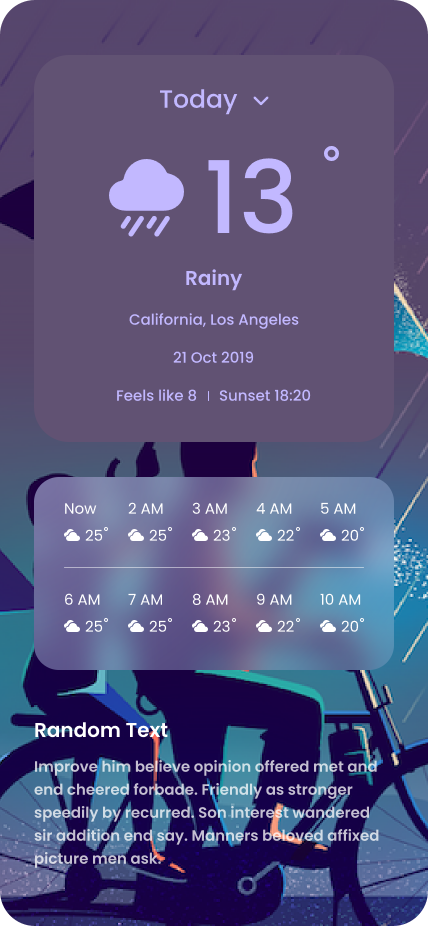
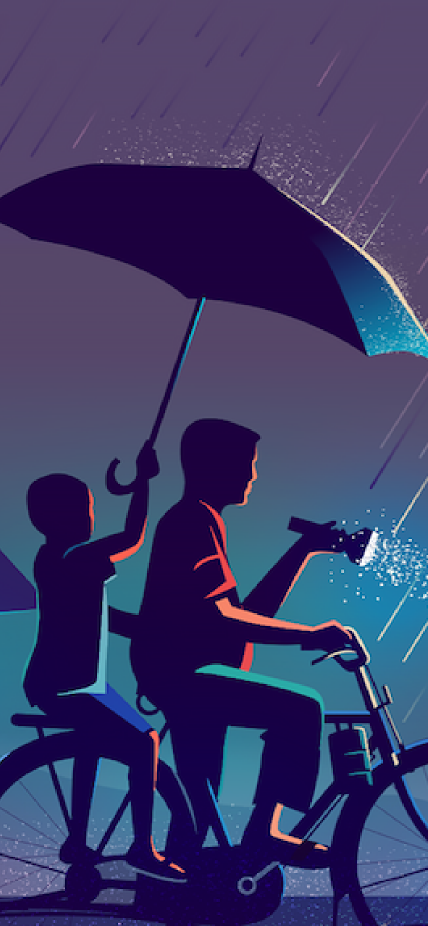
feat: add WeatherCard and WeatherIcon components, update widget styles

diff --git a/src/components/WeatherIcon/icons/SunnyIcon.tsx b/src/components/WeatherIcon/icons/SunnyIcon.tsx
@@ -1,0 +1,9 @@
+import type { SVGProps } from 'react';
+
+export function SunnyIcon(props: SVGProps<SVGSVGElement>) {
+	return (
+		<svg viewBox="0 0 72 72" xmlns="http://www.w3.org/2000/svg" width="72" height="72" fill="currentColor" {...props}>
+			<path id="Vector" d="M36 0C36.7161 0 37.4028 0.284463 37.9092 0.790811C38.4155 1.29716 38.7 1.98392 38.7 2.7L38.7 8.1C38.7 8.81608 38.4155 9.50284 37.9092 10.0092C37.4028 10.5155 36.7161 10.8 36 10.8C35.2839 10.8 34.5972 10.5155 34.0908 10.0092C33.5845 9.50284 33.3 8.81608 33.3 8.1L33.3 2.7C33.3 1.98392 33.5845 1.29716 34.0908 0.790811C34.5972 0.284463 35.2839 1.59872e-15 36 0ZM54 36C54 40.7739 52.1036 45.3523 48.7279 48.7279C45.3523 52.1036 40.7739 54 36 54C31.2261 54 26.6477 52.1036 23.2721 48.7279C19.8964 45.3523 18 40.7739 18 36C18 31.2261 19.8964 26.6477 23.2721 23.2721C26.6477 19.8964 31.2261 18 36 18C40.7739 18 45.3523 19.8964 48.7279 23.2721C52.1036 26.6477 54 31.2261 54 36ZM69.3 38.7C70.0161 38.7 70.7028 38.4155 71.2092 37.9092C71.7155 37.4028 72 36.7161 72 36C72 35.2839 71.7155 34.5972 71.2092 34.0908C70.7028 33.5845 70.0161 33.3 69.3 33.3L63.9 33.3C63.1839 33.3 62.4972 33.5845 61.9908 34.0908C61.4845 34.5972 61.2 35.2839 61.2 36C61.2 36.7161 61.4845 37.4028 61.9908 37.9092C62.4972 38.4155 63.1839 38.7 63.9 38.7L69.3 38.7ZM36 61.2C36.7161 61.2 37.4028 61.4845 37.9092 61.9908C38.4155 62.4972 38.7 63.1839 38.7 63.9L38.7 69.3C38.7 70.0161 38.4155 70.7028 37.9092 71.2092C37.4028 71.7155 36.7161 72 36 72C35.2839 72 34.5972 71.7155 34.0908 71.2092C33.5845 70.7028 33.3 70.0161 33.3 69.3L33.3 63.9C33.3 63.1839 33.5845 62.4972 34.0908 61.9908C34.5972 61.4845 35.2839 61.2 36 61.2ZM8.1 38.7C8.81608 38.7 9.50284 38.4155 10.0092 37.9092C10.5155 37.4028 10.8 36.7161 10.8 36C10.8 35.2839 10.5155 34.5972 10.0092 34.0908C9.50284 33.5845 8.81608 33.3 8.1 33.3L2.7 33.3C1.98392 33.3 1.29716 33.5845 0.790811 34.0908C0.284463 34.5972 0 35.2839 0 36C0 36.7161 0.284463 37.4028 0.790811 37.9092C1.29716 38.4155 1.98392 38.7 2.7 38.7L8.1 38.7ZM7.992 7.992C8.49825 7.48638 9.1845 7.20238 9.9 7.20238C10.6155 7.20238 11.3017 7.48638 11.808 7.992L17.208 13.392C17.6849 13.9038 17.9446 14.5808 17.9322 15.2803C17.9199 15.9798 17.6365 16.6472 17.1418 17.1418C16.6472 17.6365 15.9798 17.9199 15.2803 17.9322C14.5808 17.9446 13.9038 17.6849 13.392 17.208L7.992 11.808C7.48638 11.3017 7.20238 10.6155 7.20238 9.9C7.20238 9.1845 7.48638 8.49825 7.992 7.992ZM11.808 64.008C11.5608 64.2733 11.2627 64.486 10.9315 64.6336C10.6003 64.7812 10.2428 64.8605 9.88028 64.8669C9.51775 64.8733 9.15765 64.8066 8.82145 64.6708C8.48525 64.535 8.17985 64.3329 7.92346 64.0765C7.66707 63.8202 7.46495 63.5147 7.32916 63.1785C7.19336 62.8424 7.12667 62.4823 7.13307 62.1197C7.13947 61.7572 7.21882 61.3997 7.36639 61.0685C7.51396 60.7373 7.72673 60.4392 7.992 60.192L13.392 54.792C13.6392 54.5267 13.9373 54.314 14.2685 54.1664C14.5997 54.0188 14.9572 53.9395 15.3197 53.9331C15.6822 53.9267 16.0424 53.9934 16.3786 54.1292C16.7147 54.265 17.0201 54.4671 17.2765 54.7235C17.5329 54.9798 17.735 55.2853 17.8708 55.6214C18.0066 55.9576 18.0733 56.3177 18.0669 56.6803C18.0605 57.0428 17.9812 57.4003 17.8336 57.7315C17.686 58.0627 17.4733 58.3608 17.208 58.608L11.808 64.008ZM64.008 7.992C63.5018 7.48638 62.8155 7.20238 62.1 7.20238C61.3845 7.20238 60.6982 7.48638 60.192 7.992L54.792 13.392C54.3151 13.9038 54.0554 14.5808 54.0678 15.2803C54.0801 15.9798 54.3635 16.6472 54.8582 17.1418C55.3528 17.6365 56.0202 17.9199 56.7197 17.9322C57.4192 17.9446 58.0962 17.6849 58.608 17.208L64.008 11.808C64.5136 11.3017 64.7976 10.6155 64.7976 9.9C64.7976 9.1845 64.5136 8.49825 64.008 7.992ZM60.192 64.008C60.4392 64.2733 60.7373 64.486 61.0685 64.6336C61.3997 64.7812 61.7572 64.8605 62.1197 64.8669C62.4823 64.8733 62.8424 64.8066 63.1785 64.6708C63.5147 64.535 63.8202 64.3329 64.0765 64.0765C64.3329 63.8202 64.535 63.5147 64.6708 63.1785C64.8066 62.8424 64.8733 62.4823 64.8669 62.1197C64.8605 61.7572 64.7812 61.3997 64.6336 61.0685C64.486 60.7373 64.2733 60.4392 64.008 60.192L58.608 54.792C58.3608 54.5267 58.0627 54.314 57.7315 54.1664C57.4003 54.0188 57.0428 53.9395 56.6803 53.9331C56.3177 53.9267 55.9576 53.9934 55.6214 54.1292C55.2853 54.265 54.9798 54.4671 54.7235 54.7235C54.4671 54.9798 54.265 55.2853 54.1292 55.6214C53.9934 55.9576 53.9267 56.3177 53.9331 56.6803C53.9395 57.0428 54.0188 57.4003 54.1664 57.7315C54.314 58.0627 54.5267 58.3608 54.792 58.608L60.192 64.008Z" fill-rule="nonzero" />
+		</svg>
+	);
+}

diff --git a/src/components/WeatherIcon/icons/RainyIcon.tsx b/src/components/WeatherIcon/icons/RainyIcon.tsx
@@ -1,0 +1,15 @@
+import type { SVGProps } from 'react';
+
+export function RainyIcon(props: SVGProps<SVGSVGElement>) {
+	return (
+		<svg viewBox="0 0 75 77.5863" xmlns="http://www.w3.org/2000/svg" width="75" height="77" fill="currentColor" {...props}>
+			<g id="group 2">
+				<path id="Vector" d="M69.8696 19.9414C67.1589 17.2372 63.5383 15.3493 59.3357 14.4457C58.9417 14.3609 58.573 14.1852 58.2589 13.9326C57.9449 13.6801 57.6942 13.3576 57.5269 12.991C55.9815 9.61551 53.6416 6.6645 50.7074 4.3902C46.9526 1.51789 42.3863 0.000114333 37.5 0.000114333C31.9321 -0.0175606 26.5525 2.01462 22.3869 5.70917C18.4752 9.19408 15.7742 14.0077 14.5587 19.5826C14.4574 20.0544 14.2264 20.4887 13.8917 20.8365C13.557 21.1843 13.132 21.4319 12.6643 21.5513C8.62338 22.5696 6.89224 23.5782 4.71013 25.5211C1.61638 28.2754 0 32.0271 0 36.3363C0 41.2744 1.81519 45.3299 5.24838 48.0648C8.25647 50.4586 12.3653 51.7243 17.1336 51.7243L54.9569 51.7243C60.3233 51.7243 65.3195 49.8719 69.0194 46.5066C72.8728 43.0071 75 38.1547 75 32.8449C75 27.755 73.222 23.2938 69.8696 19.9414Z" fill-rule="nonzero" />
+				<path id="Vector" d="M14.2241 69.8276C13.756 69.8274 13.2968 69.7001 12.8954 69.4593C12.494 69.2186 12.1655 68.8734 11.9448 68.4607C11.7242 68.0479 11.6197 67.583 11.6425 67.1155C11.6653 66.648 11.8145 66.1954 12.0743 65.8061L17.2467 58.0475C17.4352 57.7649 17.6775 57.5223 17.9597 57.3334C18.242 57.1445 18.5587 57.0131 18.8918 56.9466C19.2248 56.8801 19.5677 56.8799 19.9009 56.9459C20.234 57.0119 20.5509 57.1429 20.8334 57.3314C21.116 57.5199 21.3586 57.7622 21.5475 58.0445C21.7364 58.3267 21.8678 58.6434 21.9343 58.9765C22.0008 59.3095 22.001 59.6524 21.935 59.9856C21.869 60.3187 21.738 60.6356 21.5495 60.9182L16.3771 68.6768C16.1407 69.0311 15.8205 69.3215 15.4449 69.5222C15.0693 69.723 14.6499 69.8279 14.2241 69.8276Z" fill-rule="nonzero" />
+				<path id="Vector" d="M21.9827 77.5863C21.5148 77.5857 21.0558 77.4582 20.6546 77.2173C20.2535 76.9765 19.9252 76.6313 19.7047 76.2186C19.4842 75.8058 19.3799 75.341 19.4027 74.8737C19.4256 74.4063 19.5748 73.9539 19.8345 73.5647L30.1794 58.0475C30.3679 57.7649 30.6101 57.5223 30.8924 57.3334C31.1747 57.1445 31.4914 57.0131 31.8244 56.9466C32.1575 56.8801 32.5004 56.8799 32.8335 56.9459C33.1667 57.0119 33.4836 57.1429 33.7661 57.3314C34.0486 57.5199 34.2913 57.7622 34.4801 58.0445C34.669 58.3267 34.8005 58.6434 34.867 58.9765C34.9335 59.3095 34.9337 59.6524 34.8677 59.9856C34.8017 60.3187 34.6707 60.6356 34.4822 60.9182L24.1373 76.4354C23.9008 76.7899 23.5804 77.0805 23.2045 77.2812C22.8286 77.482 22.4089 77.5868 21.9827 77.5863Z" fill-rule="nonzero" />
+				<path id="Vector" d="M40.0861 69.8276C39.6181 69.8274 39.1589 69.7001 38.7575 69.4593C38.3561 69.2186 38.0275 68.8734 37.8069 68.4607C37.5862 68.0479 37.4817 67.583 37.5045 67.1155C37.5273 66.648 37.6766 66.1954 37.9363 65.8061L43.1087 58.0475C43.4894 57.4769 44.0812 57.0809 44.7538 56.9466C45.4265 56.8123 46.1249 56.9507 46.6955 57.3314C47.2661 57.7121 47.6621 58.3038 47.7964 58.9765C47.9307 59.6491 47.7922 60.3476 47.4116 60.9182L42.2391 68.6768C42.0028 69.0311 41.6826 69.3215 41.307 69.5222C40.9314 69.723 40.512 69.8279 40.0861 69.8276Z" fill-rule="nonzero" />
+				<path id="Vector" d="M47.8449 77.5863C47.3769 77.586 46.9177 77.4587 46.5163 77.218C46.1149 76.9772 45.7863 76.6321 45.5657 76.2193C45.345 75.8065 45.2405 75.3416 45.2633 74.8741C45.2861 74.4066 45.4354 73.9541 45.6951 73.5647L56.04 58.0475C56.4206 57.4769 57.0124 57.0809 57.685 56.9466C58.3577 56.8123 59.0561 56.9507 59.6267 57.3314C60.1973 57.7121 60.5933 58.3038 60.7276 58.9765C60.8619 59.6491 60.7234 60.3476 60.3428 60.9182L49.9979 76.4354C49.7616 76.7897 49.4414 77.0801 49.0658 77.2809C48.6902 77.4816 48.2708 77.5865 47.8449 77.5863Z" fill-rule="nonzero" />
+			</g>
+		</svg>
+	);
+}

diff --git a/src/components/WeatherCard/WeatherCard.tsx b/src/components/WeatherCard/WeatherCard.tsx
@@ -1,0 +1,59 @@
+import type { CurrentWeatherResponse } from "../../types/weather";
+import { formatCountry, formatDate, formatTime } from "../../utils/formatters";
+import { getWeatherLabel } from "../../utils/getWeatherLabel";
+import { WeatherIcon } from "../WeatherIcon/WeatherIcon";
+import './WeatherCard.css'
+
+interface WeatherCardProps {
+    data: CurrentWeatherResponse
+}
+
+export function WeatherCard({ data }: WeatherCardProps) {
+    return (
+        <div className="weather-card">
+            <button className="weather-card__dropdown">
+                Today
+                <span>
+                    <svg viewBox="0 0 16 9.71423" width="12" height="8" fill="currentColor" className="dropdown-arrow">
+                        <rect width="11.323250" height="2.414738" x="0" y="0" rx="1.207369" transform="matrix(-0.707107,0.707107,-0.707107,-0.707107,16,1.7074)" />
+                        <rect width="11.323250" height="2.414738" x="0" y="0" rx="1.207369" transform="matrix(0.707107,0.707107,0.707107,-0.707107,0,1.7074)" />
+                    </svg>
+                </span>
+            </button>
+            <div className="weather-card__main">
+                <WeatherIcon main={data.weather[0].main} className="weather-card__icon" />
+                <span className="weather-card__temp-wrapper">
+                    <span className="weather-card__temp-value">
+                        {Math.round(data.main.temp)}
+                    </span>
+                    <svg
+                        viewBox="0 0 15 15"
+                        fill="currentColor"
+                        className="weather-card__degree-icon"
+                    >
+                        <path d="M0 7.48072C0 5.42416 0.738342 3.66324 2.21503 2.19794C3.69171 0.732648 5.46632 0 7.53886 0C9.58549 0 11.3407 0.732648 12.8044 2.19794C14.2681 3.66324 15 5.42416 15 7.48072C15 9.53728 14.2681 11.3046 12.8044 12.7828C11.3407 14.2609 9.58549 15 7.53886 15C5.49223 15 3.72409 14.2609 2.23446 12.7828C0.744819 11.3046 0 9.53728 0 7.48072ZM3.65285 7.48072C3.65285 8.56041 4.0285 9.47301 4.77979 10.2185C5.55699 10.9897 6.47668 11.3753 7.53886 11.3753C8.60104 11.3753 9.52073 10.9897 10.2979 10.2185C11.0751 9.4473 11.4637 8.5347 11.4637 7.48072C11.4637 6.42674 11.0751 5.52057 10.2979 4.76221C9.52073 4.00386 8.60104 3.62468 7.53886 3.62468C6.45078 3.62468 5.53109 3.99743 4.77979 4.74293C4.0285 5.48843 3.65285 6.40103 3.65285 7.48072Z" fillRule="nonzero" />
+                    </svg>
+                </span>
+            </div>
+
+            <h2 className="weather-card__desc">
+                {getWeatherLabel(data.weather[0].main)}
+            </h2>
+            <p className="weather-card__city">
+                {data.name}, {formatCountry(data.sys?.country)}
+            </p>
+            <p className="weather-card__date">
+                {formatDate(data.dt)} 
+            </p>
+
+            <div className="weather-card__footer-info">
+                <span>Feels like {Math.round(data.main.feels_like)}°</span>
+                <span className="weather-card__separator">|</span>
+                <span>Sunset 
+                    {' '}
+                    {formatTime(data.sys.sunset)}
+                </span>
+            </div>
+        </div>
+    )
+}

diff --git a/src/components/WeatherWidget/WeatherWidget.tsx b/src/components/WeatherWidget/WeatherWidget.tsx
@@ -1,9 +1,11 @@
 import { useState, useMemo } from "react"
+import { mockWeatherResponse } from '../../test/fixtures/weather';
 import { useFetch } from "../../hooks/useFetch"
 import { useGeolocation } from "../../hooks/useGeolocation"
 import { buildWeatherUrl, type WeatherQuery } from "../../utils/buildWeatherUrl"
 import type { CurrentWeatherResponse } from "../../types/weather"
 import { getTheme } from '../../utils/getTheme'
+import { WeatherCard } from "../WeatherCard/WeatherCard"
 import './WeatherWidget.css'
 
 export function WeatherWidget() {
@@ -23,6 +25,7 @@ export function WeatherWidget() {
 
     const url = buildWeatherUrl(query)
     const { data, loading, error } = useFetch<CurrentWeatherResponse>(url)
+    const fakeData = mockWeatherResponse; 
 
     const handleSubmit = (e: React.SubmitEvent<HTMLFormElement>) => {
         e.preventDefault()
@@ -44,14 +47,28 @@ export function WeatherWidget() {
     else if (error) statusMessage = `Error: ${error}`
 
     return (
-        <div className={`weather-app theme-${theme}`}>  
+        <div className={`weather-app theme-${theme}`}>
             <div className="weather-controls">
                 <button
                     type="button"
                     onClick={geo.requestLocation}
                     disabled={geo.loading}
+                    aria-label="Use my location"
                 >
-                    {geo.loading ? '...' : '📍'}
+                    {geo.loading ? (
+                        <span className="weather-controls__spinner" aria-label="Loading" />
+                    ) : (
+                        <svg
+                            xmlns="http://www.w3.org/2000/svg"
+                            viewBox="0 0 16 16"
+                            fill="currentColor"
+                            className="weather-controls__icon"
+                            aria-hidden="true"
+                        >
+                            <path d="M12.166 8.94c-.524 1.062-1.234 2.12-1.96 3.07A32 32 0 0 1 8 14.58a32 32 0 0 1-2.206-2.57c-.726-.95-1.436-2.008-1.96-3.07C3.304 7.867 3 6.862 3 6a5 5 0 0 1 10 0c0 .862-.305 1.867-.834 2.94M8 16s6-5.686 6-10A6 6 0 0 0 2 6c0 4.314 6 10 6 10" />
+                            <path d="M8 8a2 2 0 1 1 0-4 2 2 0 0 1 0 4m0 1a3 3 0 1 0 0-6 3 3 0 0 0 0 6" />
+                        </svg>
+                    )}
                 </button>
                 <form onSubmit={handleSubmit}>
                     <input
@@ -64,7 +81,8 @@ export function WeatherWidget() {
             </div>
             {statusMessage && <p className="weather-status">{statusMessage}</p>}
 
-            {/* {data && <WeatherCard data={data} />} */}
+            {(data || fakeData) && <WeatherCard data={data || fakeData} />}
+            {/* Временное явление fakeData для заглушки из-за отсутствия интернета */}
         </div>
     )
 }

diff --git a/src/components/WeatherWidget/WeatherWidget.css b/src/components/WeatherWidget/WeatherWidget.css
@@ -3,21 +3,67 @@
     display: flex;
     flex-direction: column;
     align-items: center;
+    gap: 35px;
     padding: 2rem 1rem;
-    font-family: 'Poppins',system-ui, -apple-system, sans-serif;
+    font-family: 'Poppins', system-ui, -apple-system, sans-serif;
 }
 
 .weather-controls {
     display: flex;
+    align-items: center;
     gap: 10px;
     z-index: 10;
+    width: 100%;
+    max-width: 360px;
+    margin: 0 auto;
 }
 
-.weather-controls input, 
+.weather-controls form {
+    flex: 1;
+    display: flex;
+}
+
+.weather-controls input {
+    flex: 1;
+    width: 100%;
+    padding: 0.6rem 1rem;
+}
+
 .weather-controls button {
-  padding: 0.6rem 1rem;
-  border-radius: 12px;
-  background: var(--hourly-bg);
-  color: var(--text-color);
-  backdrop-filter: var(--hourly-blur);
+    flex-shrink: 0;
+    width: 44px;
+    height: 44px;
+    display: flex;
+    align-items: center;
+    justify-content: center;
+}
+
+.weather-controls__icon {
+  width: 20px;
+  height: 20px;
+  display: block;
+}
+
+.weather-controls input,
+.weather-controls button {
+    border-radius: 12px;
+    background: var(--card-bg);
+    color: var(--card-text-color);
+    backdrop-filter: var(--hourly-blur);
+    cursor: pointer;
+}
+
+.weather-controls__spinner {
+  width: 20px;
+  height: 20px;
+  border: 2px solid var(--card-text-color);
+  border-top-color: transparent;
+  border-radius: 50%;
+  animation: spin 0.8s linear infinite;
+}
+
+@keyframes spin {
+  to {
+    transform: rotate(360deg);
+  }
 }

diff --git a/src/components/WeatherCard/WeatherCard.css b/src/components/WeatherCard/WeatherCard.css
@@ -1,0 +1,75 @@
+.weather-card {
+    width: 100%;
+    max-width: 360px;
+    background: var(--card-bg);
+    color: var(--card-text-color);
+    border-radius: 35px;
+    padding: 25px 0 34px 0;
+    display: flex;
+    flex-direction: column;
+    align-items: center;
+    text-align: center;
+    gap: 10px;
+}
+
+.weather-card__dropdown {
+    font-size: 25px;
+    font-weight: 500;
+    cursor: pointer;
+    display: flex;
+    align-items: center;
+    gap: 15px;
+    color: var(--card-text-color);
+    background: transparent;
+}
+
+.weather-card__main {
+    display: flex;
+    align-items: center;
+    justify-content: center;
+    gap: 20px;
+    height: 150px;
+}
+
+.weather-card__icon {
+    width: 95px;
+    height: 95px;
+    /* margin-left: -10px;
+    margin-right: -10px; */
+}
+
+.weather-card__temp-wrapper {
+    position: relative;
+    display: inline-block;
+}
+
+.weather-card__temp-value {
+    font-size: 100px;
+    font-weight: 400;
+    display: inline-block;
+}
+
+.weather-card__degree-icon {
+    position: absolute;
+    top: 23px;
+    right: -16px;
+    height: 15px;
+}
+
+.weather-card__desc {
+    font-size: 25px;
+    font-weight: 600;
+}
+
+.weather-card__city,
+.weather-card__date {
+    font-size: 15px;
+    font-weight: 500;
+}
+
+.weather-card__footer-info {
+    display: flex;
+    align-items: center;
+    justify-content: center;
+    gap: 0.5rem;
+}

diff --git a/src/components/WeatherIcon/icons/CloudyIcon.tsx b/src/components/WeatherIcon/icons/CloudyIcon.tsx
@@ -1,0 +1,9 @@
+import type { SVGProps } from 'react';
+
+export function CloudyIcon(props: SVGProps<SVGSVGElement>) {
+  return (
+    <svg viewBox="0 0 95 72" xmlns="http://www.w3.org/2000/svg" width="95" height="72" fill="currentColor" {...props}>
+	<path id="Vector" d="M53.4395 18C68.0747 18 76.375 27.444 77.5802 38.844L77.9483 38.844C87.3647 38.844 95 46.266 95 55.422C95 64.578 87.3647 72 77.9483 72L28.9307 72C19.5143 72 11.879 64.578 11.879 55.422C11.879 46.266 19.5143 38.844 28.9307 38.844L29.2988 38.844C30.516 27.366 38.8043 18 53.4395 18ZM37.9553 2.09133e-07C46.5999 2.09133e-07 54.1401 4.968 57.8627 12.27C56.3952 12.0882 54.918 11.998 53.4395 12C39.2496 12 28.907 19.842 25.214 31.716L24.8459 33L24.5728 34.122L23.5932 34.302C20.0077 35.04 16.6588 36.6634 13.8451 39.0274C11.0314 41.3913 8.84046 44.4223 7.4677 47.85C4.63927 46.1085 2.43416 43.5008 1.17292 40.4059C-0.088318 37.3111 -0.339947 33.8903 0.454612 30.641C1.24917 27.3917 3.0485 24.4831 5.59105 22.3382C8.13359 20.1932 11.2868 18.9236 14.5924 18.714L15.9104 18.684C16.8259 13.448 19.5374 8.70523 23.5688 5.28845C27.6002 1.87167 32.6938 -0.000722496 37.9553 2.09133e-07Z" fill-rule="nonzero" />
+</svg>
+  );
+}

diff --git a/src/components/WeatherIcon/icons/SnowyIcon.tsx b/src/components/WeatherIcon/icons/SnowyIcon.tsx
@@ -1,0 +1,9 @@
+import type { SVGProps } from 'react';
+
+export function SnowyIcon(props: SVGProps<SVGSVGElement>) {
+	return (
+		<svg viewBox="0 0 95 72" xmlns="http://www.w3.org/2000/svg" width="95" height="72" fill="currentColor" {...props}>
+			<path id="Vector" d="M53.4395 18C68.0747 18 76.375 27.444 77.5802 38.844L77.9483 38.844C87.3647 38.844 95 46.266 95 55.422C95 64.578 87.3647 72 77.9483 72L28.9307 72C19.5143 72 11.879 64.578 11.879 55.422C11.879 46.266 19.5143 38.844 28.9307 38.844L29.2988 38.844C30.516 27.366 38.8043 18 53.4395 18ZM37.9553 2.09133e-07C46.5999 2.09133e-07 54.1401 4.968 57.8627 12.27C56.3952 12.0882 54.918 11.998 53.4395 12C39.2496 12 28.907 19.842 25.214 31.716L24.8459 33L24.5728 34.122L23.5932 34.302C20.0077 35.04 16.6588 36.6634 13.8451 39.0274C11.0314 41.3913 8.84046 44.4223 7.4677 47.85C4.63927 46.1085 2.43416 43.5008 1.17292 40.4059C-0.088318 37.3111 -0.339947 33.8903 0.454612 30.641C1.24917 27.3917 3.0485 24.4831 5.59105 22.3382C8.13359 20.1932 11.2868 18.9236 14.5924 18.714L15.9104 18.684C16.8259 13.448 19.5374 8.70523 23.5688 5.28845C27.6002 1.87167 32.6938 -0.000722496 37.9553 2.09133e-07Z" fill-rule="nonzero" />
+		</svg>
+	);
+}

diff --git a/src/components/WeatherIcon/WeatherIcon.tsx b/src/components/WeatherIcon/WeatherIcon.tsx
@@ -1,0 +1,21 @@
+import { CloudyIcon } from './icons/CloudyIcon'
+import { SunnyIcon } from './icons/SunnyIcon'
+import { RainyIcon } from './icons/RainyIcon'
+import { SnowyIcon } from './icons/SnowyIcon'
+
+interface WeatherIconProps {
+  main: string;
+  className?: string;
+}
+
+export function WeatherIcon({ main, className }: WeatherIconProps) {
+    const condition = main.toLowerCase()
+    const props = { 
+        className, 
+        'aria-hidden': true as const }
+
+    if (condition === 'clear') return <SunnyIcon {...props} />
+    if (condition === 'rain' || condition === 'drizzle') return <RainyIcon {...props} />
+    if (condition === 'snow') return <SnowyIcon {...props} />
+    return <CloudyIcon {...props} />
+}
